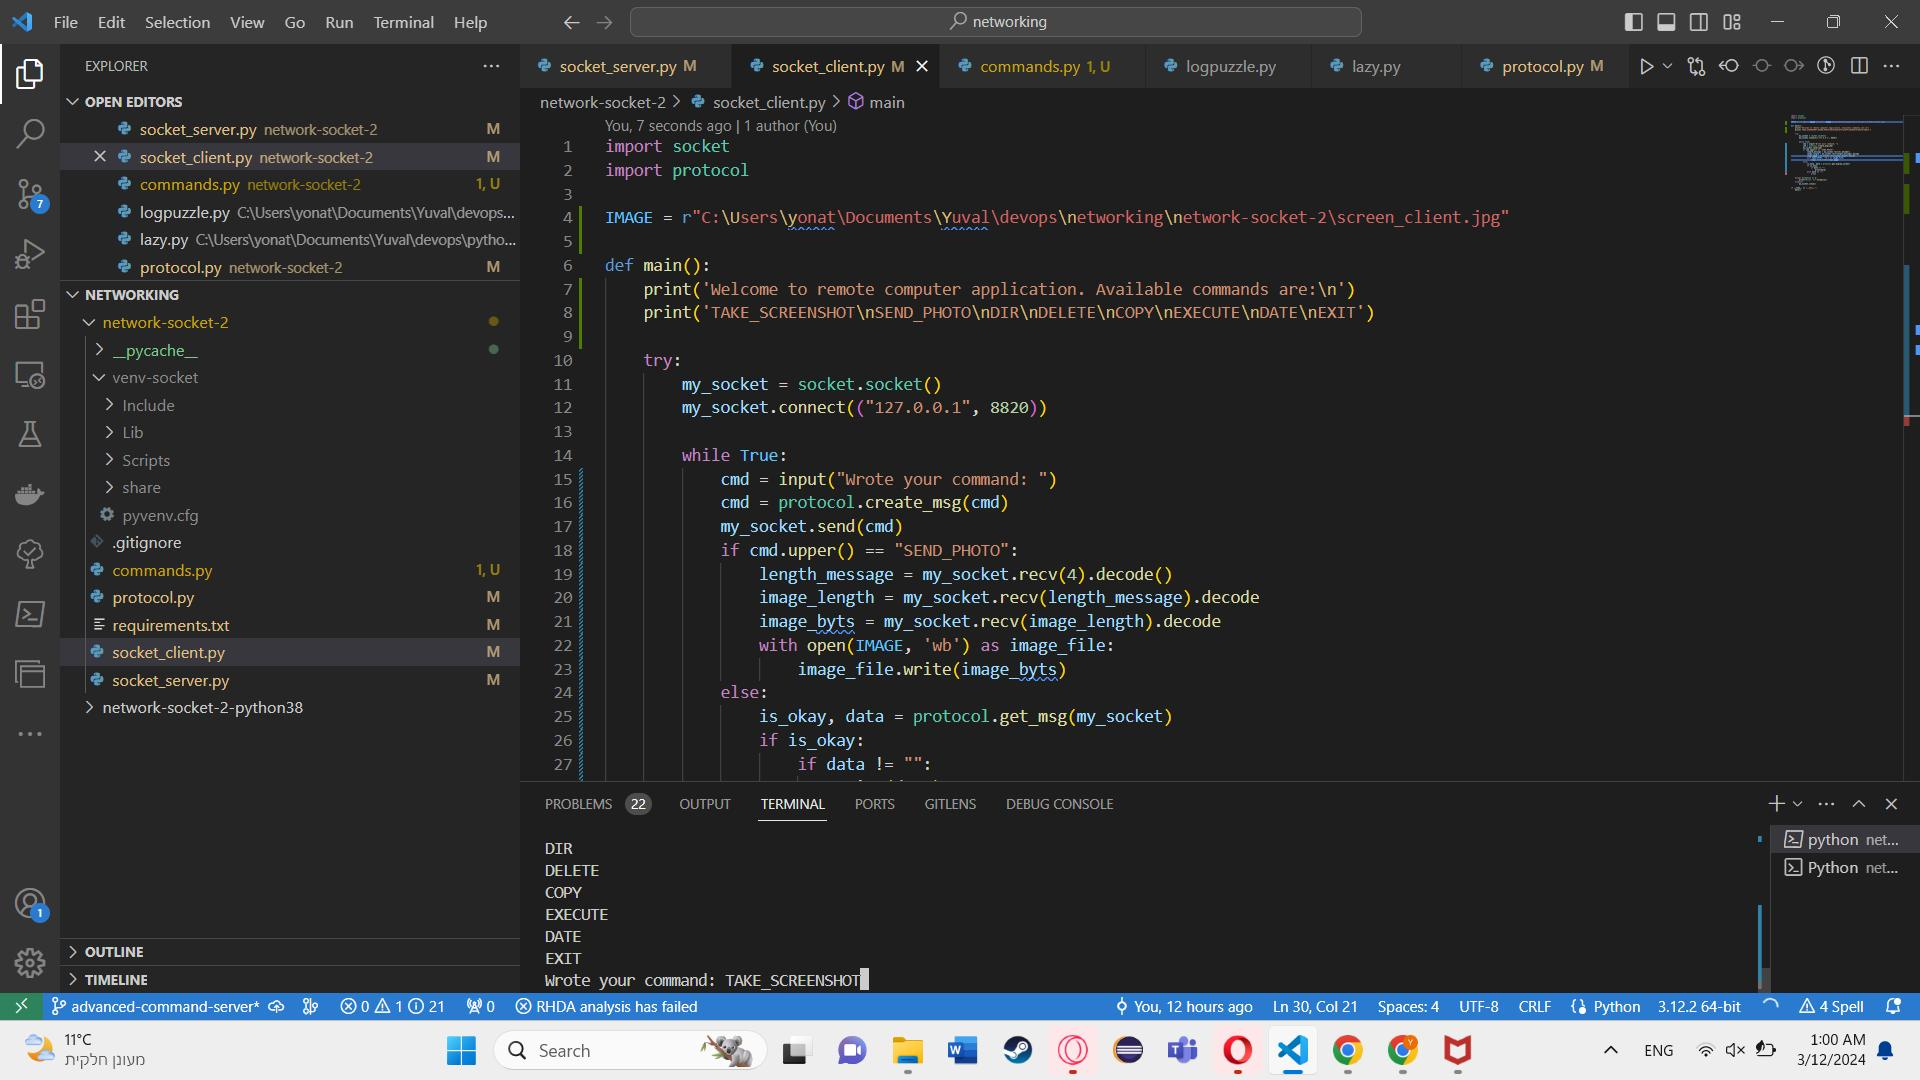
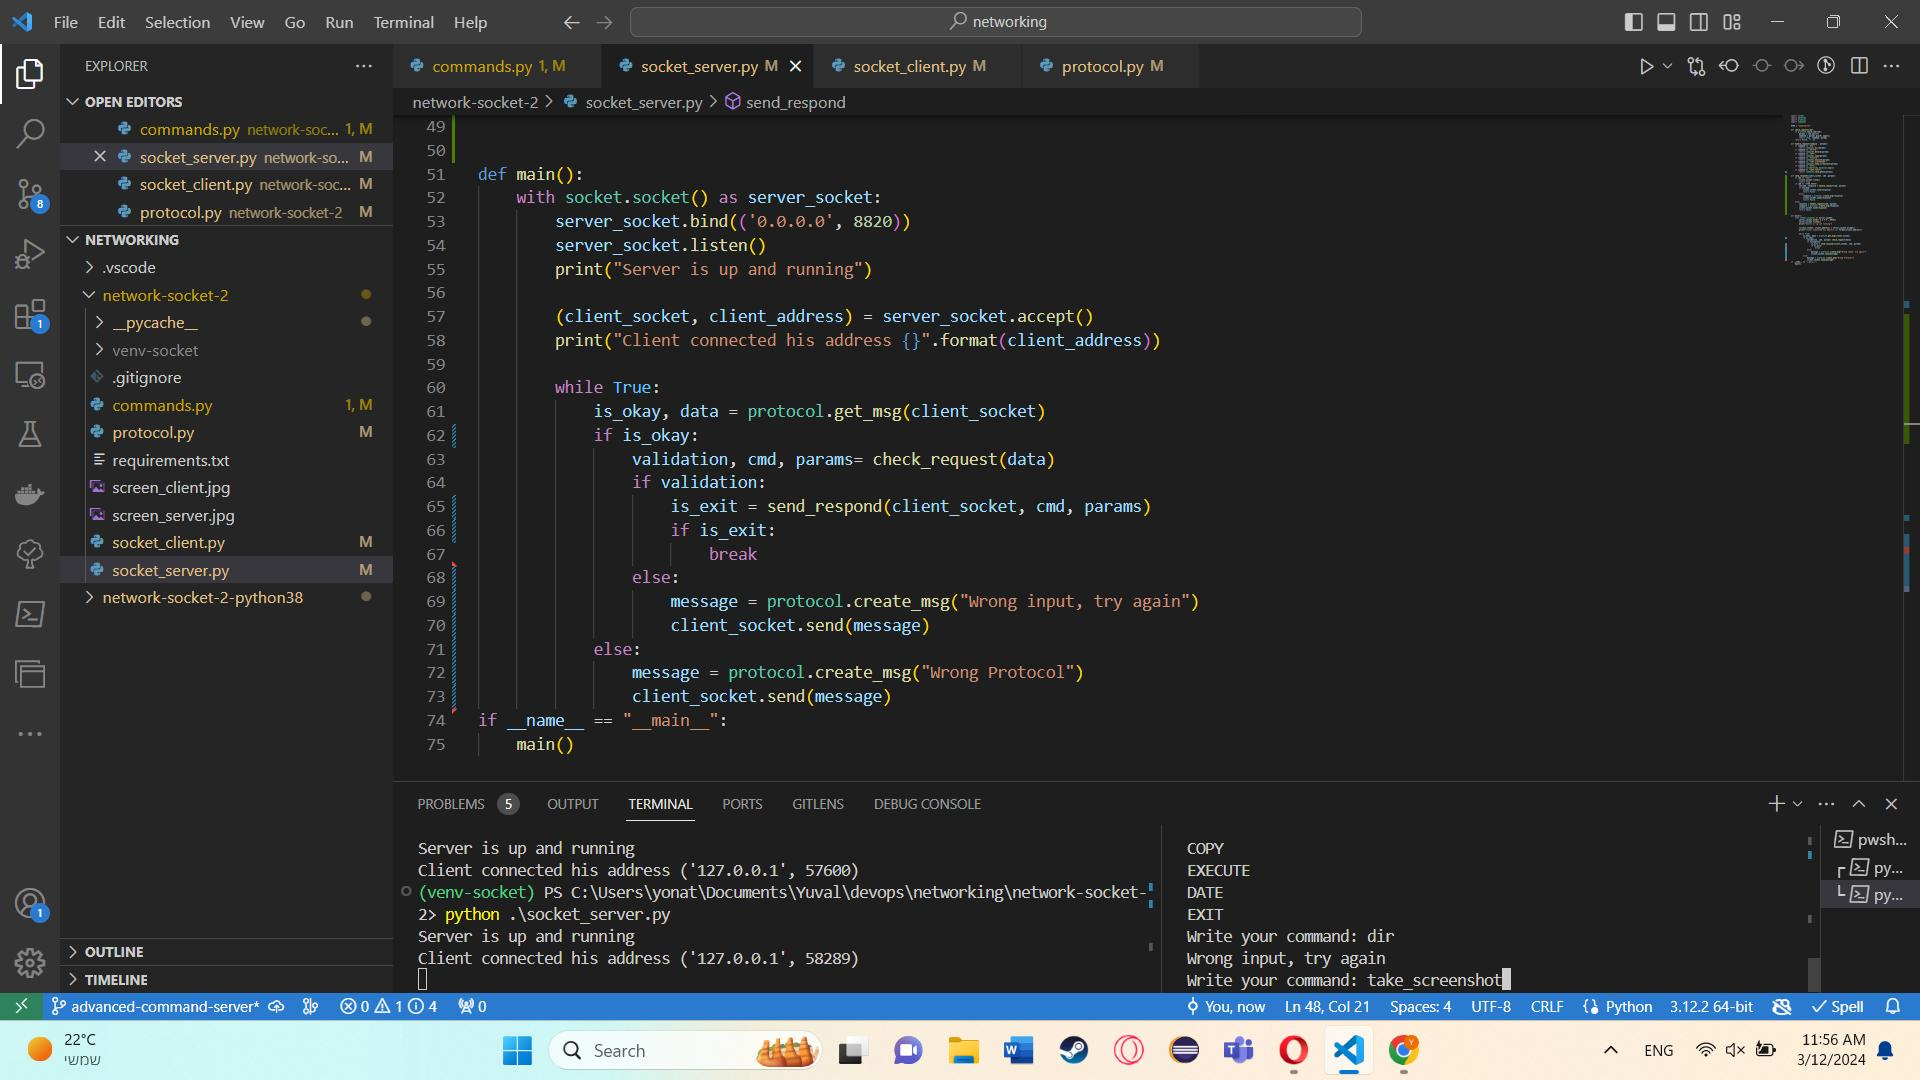
bonus exercise 2.7 nicer code and bug fix

diff --git a/socket_server.py b/socket_server.py
@@ -26,7 +26,27 @@ def handle_request(command , params):
     if command == "DATE":
         return str(datetime.datetime.now())
     if command == "SEND_PHOTO":
-        return commands.send_photo(params)        
+        return commands.send_photo(params)
+
+def send_respond(client_socket, cmd ,params):
+    if cmd == "EXIT":
+        client_socket.close()
+        return True
+    if cmd == "SEND_PHOTO":
+        succeed, response = handle_request(cmd, params)
+        if succeed:
+            client_socket.send(response)
+            return False
+        else:
+            response = protocol.create_msg(response)
+            client_socket.send(response)
+            return False         
+    else:
+        response = handle_request(cmd, params)
+        response = protocol.create_msg(response)
+        client_socket.send(response)
+        return False
+
 
 def main():
     with socket.socket() as server_socket:
@@ -39,24 +59,17 @@ def main():
         
         while True:
             is_okay, data = protocol.get_msg(client_socket)
-            if not is_okay:
-                message = protocol.create_msg("Wrong Protocol")
-                client_socket.send(message)
-            else:
+            if is_okay:
                 validation, cmd, params= check_request(data)
                 if validation:
-                    if cmd == "EXIT":
-                        client_socket.close()
+                    is_exit = send_respond(client_socket, cmd, params)
+                    if is_exit:
                         break
-                    if cmd == "SEND_PHOTO":
-                        client_socket.send(handle_request(cmd, params))               
-                    else:
-                        response = handle_request(cmd, params)
-                        response = protocol.create_msg(response)
-                        client_socket.send(response)
                 else:
-                    message = protocol.create_msg("Problem with the input")
+                    message = protocol.create_msg("Wrong input, try again")
                     client_socket.send(message)
-
+            else:
+                message = protocol.create_msg("Wrong Protocol")
+                client_socket.send(message)
 if __name__ == "__main__":
     main()

diff --git a/socket_client.py b/socket_client.py
@@ -3,18 +3,21 @@ import protocol
 
 IMAGE = r"C:\Users\yonat\Documents\Yuval\devops\networking\network-socket-2\screen_client.jpg"
 
-def handle_respond(my_socket, data, cmd):
+def handle_respond(my_socket, respond, cmd):
     if cmd.upper() == "SEND_PHOTO":
-        image_bytes = bytes(my_socket.recv(int(data)))
-        with open(IMAGE, 'wb') as image_file:
+        if "Error" in str(respond):
+            print(respond)
+        else:
+            image_bytes = bytes(my_socket.recv(int(respond)))
+            image_file = open(IMAGE, 'wb')
             image_file.write(bytes(image_bytes))
+            image_file.close()
             
-    if data != "":
-        print(data)
-
+    elif respond != "":
+        print(respond)
 
 def main():
-    print('Welcome to remote computer application. Available commands are:\n')
+    print('Welcome to remote command line interface. Available commands are:\n')
     print('TAKE_SCREENSHOT\nSEND_PHOTO\nDIR\nDELETE\nCOPY\nEXECUTE\nDATE\nEXIT')
 
     try:
@@ -22,14 +25,16 @@ def main():
         my_socket.connect(("127.0.0.1", 8820))
          
         while True:
-            cmd = input("Wrote your command: ")
+            cmd = input("Write your command: ")
             cmd_msg = protocol.create_msg(cmd)
             my_socket.send(cmd_msg)          
-            is_okay, data = protocol.get_msg(my_socket)
+            is_okay, respond = protocol.get_msg(my_socket)
             if is_okay:
-                handle_respond(my_socket, data, cmd)
-            elif data == "":
+                handle_respond(my_socket, respond, cmd)
+            elif respond == "":
                 break
+            else: 
+                print(respond)
 
     except Exception as e:
         print("Error: {}".format(e))     

diff --git a/commands.py b/commands.py
@@ -1,4 +1,3 @@
-
 import shutil
 import glob
 import os
@@ -60,11 +59,12 @@ def take_screenshot(params):
         return "Error {}".format(e)
 
 def send_photo(params):
-    message = ''
-    image_size = os.path.getsize(IMAGE_PATH)
-    message = str(len(str(image_size))).zfill(4) + str(image_size)
-    print(message)
-    file = open(IMAGE_PATH, 'rb')
-    bytes_read = file.read()
-    message = message.encode() + bytes_read
-    return message
+    try:
+        image_size = os.path.getsize(IMAGE_PATH)
+        message = str(len(str(image_size))).zfill(4) + str(image_size)
+        with open(IMAGE_PATH, 'rb') as file:
+            bytes_read = file.read()
+            message = message.encode() + bytes_read
+        return True, message
+    except Exception as e:
+        return False, f"Error: {e}"

diff --git a/protocol.py b/protocol.py
@@ -21,12 +21,12 @@ def create_msg(data):
 
 def get_msg(my_socket):
     try:
-        length_message = my_socket.recv(LENGTH_FIELD_SIZE).decode()
-        if length_message == '':
+        message_length = my_socket.recv(LENGTH_FIELD_SIZE).decode()
+        if message_length == '':
             return False, ''
-        length_message = int(length_message)
-        data = my_socket.recv(length_message).decode()
+        message_length = int(message_length)
+        data = my_socket.recv(message_length).decode()
         return True, data
     except ValueError:
         junk =  my_socket.recv(1024).decode()
-        return False, "Error"
+        return False, "Error receiving massage"
